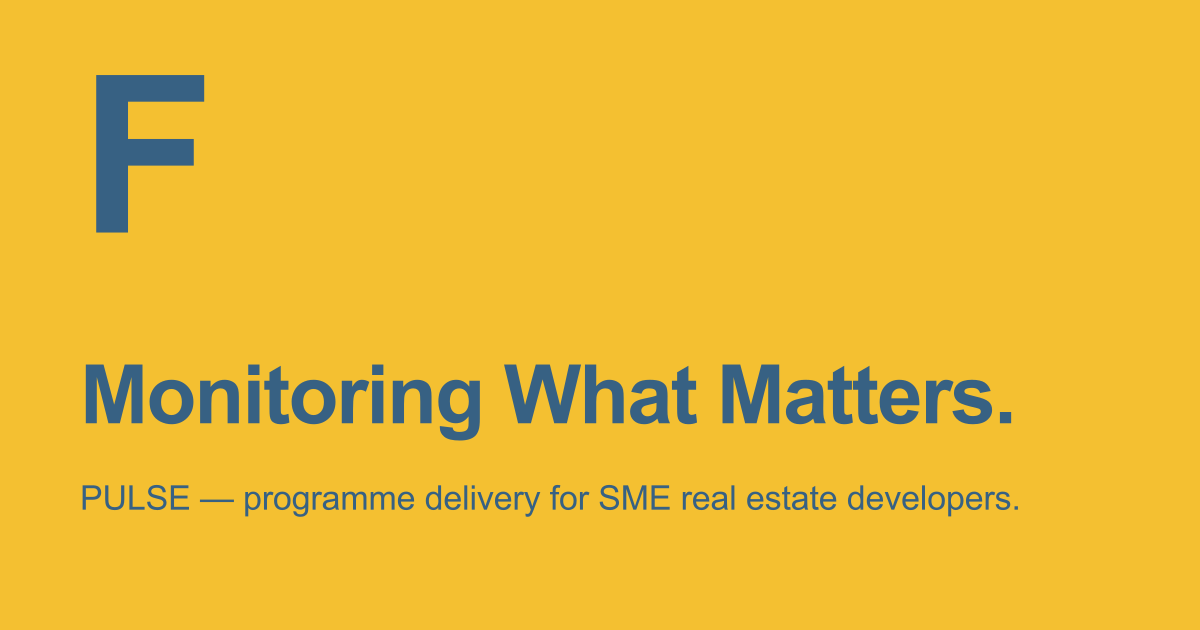
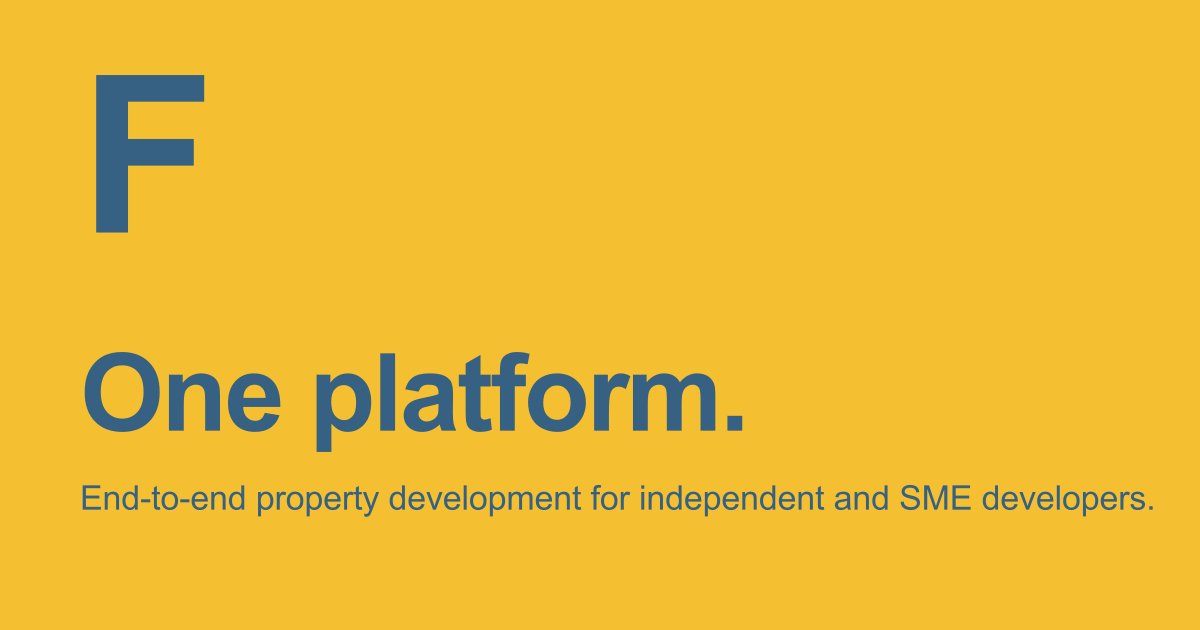
restructure step C: design partner rewrite, products section, footer + OG cleanup, em-dash sweep
Nav:
- Link set replaced: Lifecycle (#lifecycle), Products
  (#products), Get involved (#design-partner)
- Removed: PULSE, Project Brief, Pilot, About
- CTA pill renamed "Become a partner" (shorter than
  "Join the design partner programme") → #design-partner
- aria-label simplified to "Flitrr home" (was
  "Flitrr — Monitoring What Matters")

Products (NEW Section):
- id="products" on Foreground surface
- Heading: "Our first product."
- Single PULSE card with Accent 3 border + 12px radius
- Status pill: "COMING SOON · PRIVATE DEVELOPMENT"
  (Accent 3 fill, Accent 1 text, uppercase Inter 600)
- Body: "Properly set up your projects, then monitor
  what matters across every stage. PULSE is built for
  the execution arc of a development project, design
  through completion."
- Ghost CTA: "Be the first to access PULSE" →
  #design-partner
- Footline (Accent 2): "More products on the way..."

Design Partner (renamed from Pilot):
- Section id changed: #pilot → #design-partner
- Heading: "Be a Flitrr design partner."
- Sub: "Ten developers. Direct input into every product
  Flitrr ships. First access to PULSE the moment it is
  ready."
- Three blocks rewritten as Flitrr-level (no PULSE-only
  framing). What it is/give/get reflect every Flitrr
  product, not just PULSE
- PILOT_BLOCKS const renamed DESIGN_PARTNER_BLOCKS
- Pilot() function renamed DesignPartner()
- Submit + footnote: "design partner" (no hyphen)
- Success message em-dash → period

Footer CTA:
[…]

Changed region(s): [[0.0617, 0.5429, 0.8633, 0.7238], [0.0617, 0.754, 0.9558, 0.8143]]

diff --git a/app/page.js b/app/page.js
@@ -25,7 +25,7 @@ function Nav() {
         <a
           href="#"
           className={styles.navWordmark}
-          aria-label="Flitrr — Monitoring What Matters"
+          aria-label="Flitrr home"
         >
           Flitrr
         </a>
@@ -35,12 +35,11 @@ function Nav() {
           className={`${styles.navLinks} ${menuOpen ? styles.navLinksOpen : ''}`}
           aria-label="Primary navigation"
         >
-          <a href="#pulse-modules" onClick={close}>PULSE</a>
-          <a href="#project-brief" onClick={close}>Project Brief</a>
-          <a href="#pilot" onClick={close}>Pilot</a>
-          <a href="#about" onClick={close}>About</a>
-          <a href="#pilot" className={styles.navCta} onClick={close}>
-            Join the pilot
+          <a href="#lifecycle" onClick={close}>Lifecycle</a>
+          <a href="#products" onClick={close}>Products</a>
+          <a href="#design-partner" onClick={close}>Get involved</a>
+          <a href="#design-partner" className={styles.navCta} onClick={close}>
+            Become a partner
           </a>
         </nav>
 
@@ -213,25 +212,65 @@ function Lifecycle() {
 
 
 /* ─────────────────────────────────────────
-   Pilot — PULSE design-partner programme (Section 8)
+   Products — single PULSE coming-soon card
 ───────────────────────────────────────── */
 
-const PILOT_BLOCKS = [
+function Products() {
+  return (
+    <section
+      id="products"
+      className={styles.products}
+      aria-labelledby="products-heading"
+    >
+      <div className="container">
+        <h2 id="products-heading" className={styles.sectionHeading}>
+          Our first product.
+        </h2>
+
+        <article className={styles.productCard}>
+          <span className={styles.productPill}>
+            Coming soon · Private development
+          </span>
+          <h3 className={styles.productHeading}>PULSE</h3>
+          <p className={styles.productBody}>
+            Properly set up your projects, then monitor what matters across
+            every stage. PULSE is built for the execution arc of a
+            development project, design through completion.
+          </p>
+          <a href="#design-partner" className={styles.productCta}>
+            Be the first to access PULSE
+          </a>
+        </article>
+
+        <p className={styles.productsFootline}>
+          More products on the way. Each will tackle a different stage of
+          the development lifecycle.
+        </p>
+      </div>
+    </section>
+  );
+}
+
+/* ─────────────────────────────────────────
+   Design Partner — Flitrr-level founding programme
+───────────────────────────────────────── */
+
+const DESIGN_PARTNER_BLOCKS = [
   {
     heading: 'What it is',
-    body: 'A 90-day design-partner programme. Weekly working sessions with the founder while we build the Project Brief module. First access on release. Direct say in what gets built next.',
+    body: 'A 90-day programme. Working sessions while we build. First access on release. A direct say in what we ship next.',
   },
   {
     heading: 'What you give',
-    body: 'Two real projects, two hours a week, and honest feedback. A willingness to shape a product before it’s finished.',
+    body: 'Two real projects, two hours a week, honest feedback. A willingness to shape products before they are finished.',
   },
   {
     heading: 'What you get',
-    body: 'Lifetime founding-member pricing on PULSE. Priority access to every module as it ships. A direct line to the team building the tool.',
+    body: 'Lifetime founding-member pricing on every Flitrr product. Priority access to each product as it ships. A direct line to the team.',
   },
 ];
 
-function Pilot() {
+function DesignPartner() {
   const [email, setEmail] = useState('');
   const [company, setCompany] = useState('');
   const [portfolio, setPortfolio] = useState('');
@@ -252,19 +291,22 @@ function Pilot() {
   };
 
   return (
-    <section id="pilot" className={styles.pilot} aria-labelledby="pilot-heading">
+    <section
+      id="design-partner"
+      className={styles.pilot}
+      aria-labelledby="design-partner-heading"
+    >
       <div className="container">
-        <h2 id="pilot-heading" className={styles.sectionHeading}>
-          Be a PULSE design partner.
+        <h2 id="design-partner-heading" className={styles.sectionHeading}>
+          Be a Flitrr design partner.
         </h2>
         <p className={styles.pilotSub}>
-          Ten SME developers. Direct input into the product before it
-          launches. First access to the Project Brief module the moment
-          it&rsquo;s ready.
+          Ten developers. Direct input into every product Flitrr ships.
+          First access to PULSE the moment it is ready.
         </p>
 
         <div className={styles.pilotBlocks}>
-          {PILOT_BLOCKS.map(({ heading, body }) => (
+          {DESIGN_PARTNER_BLOCKS.map(({ heading, body }) => (
             <div key={heading} className={styles.pilotBlock}>
               <h3 className={styles.pilotBlockHeading}>{heading}</h3>
               <p className={styles.pilotBlockBody}>{body}</p>
@@ -281,7 +323,7 @@ function Pilot() {
                   <path d="M5.5 10.5l3 3 6-6" stroke="var(--color-accent-1-deep-blue)" strokeWidth="1.5" strokeLinecap="round" strokeLinejoin="round" />
                 </svg>
                 <span>
-                  Thank you — we&rsquo;ll be in touch shortly to confirm your spot.
+                  Thank you. We&rsquo;ll be in touch shortly to confirm your spot.
                 </span>
               </div>
             ) : (
@@ -356,12 +398,12 @@ function Pilot() {
                   </select>
                 </div>
                 <button type="submit" className={`${styles.btnPrimary} ${styles.btnFullWidth}`}>
-                  Request a design-partner spot
+                  Request a design partner spot
                 </button>
               </form>
             )}
             <p className={styles.pilotNote}>
-              No payment. No commitment beyond the design-partner programme.
+              No payment. No commitment beyond the design partner programme.
               Ten spots total.
             </p>
           </div>
@@ -396,14 +438,14 @@ function FooterCta() {
       <div className="container">
         <div className={styles.footerCtaInner}>
           <h2 id="fcta-heading" className={styles.footerCtaHeading}>
-            Ten design-partner spots. First come, first served.
+            Ten design partner spots. First come, first served.
           </h2>
           <p className={styles.footerCtaBody}>
-            PULSE will be shaped by the developers who use it first. If
-            that&rsquo;s the seat you want, take it now.
+            Flitrr will be shaped by the developers who use it first. If
+            that is the seat you want, take it now.
           </p>
-          <a href="#pilot" className={styles.btnAmber}>
-            Request a design-partner spot
+          <a href="#design-partner" className={styles.btnAmber}>
+            Request a design partner spot
           </a>
         </div>
       </div>
@@ -422,9 +464,8 @@ function Footer() {
         <div className={styles.footerTop}>
           <div className={styles.footerBrand}>
             <span className={styles.footerWordmark}>Flitrr</span>
-            <p className={styles.footerTagline}>Monitoring What Matters.</p>
             <p className={styles.footerSubTagline}>
-              Flitrr is the company behind PULSE.
+              One platform for independent and SME real estate developers.
             </p>
           </div>
           <div className={styles.footerLinks}>
@@ -469,7 +510,8 @@ export default function Home() {
       <main id="main-content">
         <Hero />
         <Lifecycle />
-        <Pilot />
+        <Products />
+        <DesignPartner />
         <FooterCta />
       </main>
       <Footer />

diff --git a/app/page.module.css b/app/page.module.css
@@ -352,6 +352,98 @@
 }
 
 /* ─────────────────────────────────────────
+   Products — single PULSE coming-soon card
+───────────────────────────────────────── */
+
+.products {
+  background-color: var(--color-surface-section);
+  padding-block: 6rem;
+  border-top: 1px solid var(--color-border);
+}
+
+.productCard {
+  background-color: var(--color-foreground-cream);
+  border: 1px solid var(--color-border);
+  border-radius: 12px;
+  padding: 24px;
+  max-width: 560px;
+  display: flex;
+  flex-direction: column;
+  gap: 1rem;
+  margin-top: 1rem;
+}
+
+.productPill {
+  display: inline-flex;
+  align-self: flex-start;
+  font-family: var(--font-body), sans-serif;
+  font-size: 0.6875rem;
+  font-weight: 600;
+  letter-spacing: 0.08em;
+  text-transform: uppercase;
+  padding: 5px 11px;
+  border-radius: 999px;
+  background-color: var(--color-accent-3-light-grey-blue);
+  color: var(--color-accent-1-deep-blue);
+}
+
+.productHeading {
+  font-family: var(--font-heading), sans-serif;
+  font-size: 2rem;
+  font-weight: 800;
+  line-height: 1.1;
+  letter-spacing: -0.015em;
+  color: var(--color-accent-1-deep-blue);
+  margin: 0;
+}
+
+.productBody {
+  font-family: var(--font-body), sans-serif;
+  font-size: 1rem;
+  line-height: 1.6;
+  color: var(--color-accent-1-deep-blue);
+  margin: 0;
+}
+
+.productCta {
+  display: inline-block;
+  align-self: flex-start;
+  margin-top: 0.5rem;
+  font-family: var(--font-body), sans-serif;
+  font-size: 0.9375rem;
+  font-weight: 600;
+  letter-spacing: 0.005em;
+  color: var(--color-button-ghost-text);
+  background-color: transparent;
+  border: 1.5px solid var(--color-button-ghost-border);
+  border-radius: 8px;
+  padding: 10px 18px;
+  transition: background-color 0.18s ease;
+  cursor: pointer;
+  text-align: center;
+  text-decoration: none;
+}
+
+.productCta:hover,
+.productCta:focus-visible {
+  background-color: var(--color-button-ghost-hover-bg);
+}
+
+.productCta:focus-visible {
+  outline: 2px solid var(--color-accent-1-deep-blue);
+  outline-offset: 3px;
+}
+
+.productsFootline {
+  font-family: var(--font-body), sans-serif;
+  font-size: 0.9375rem;
+  line-height: 1.55;
+  color: var(--color-accent-2-grey-blue);
+  margin-top: 2rem;
+  max-width: 560px;
+}
+
+/* ─────────────────────────────────────────
    Pilot — design-partner programme (Section 8)
 ───────────────────────────────────────── */
 

diff --git a/app/layout.js b/app/layout.js
@@ -15,9 +15,9 @@ const inter = Inter({
   display: 'swap',
 });
 
-const SITE_TITLE = 'Flitrr — Monitoring What Matters';
+const SITE_TITLE = 'Flitrr. One platform for property development';
 const SITE_DESCRIPTION =
-  'Flitrr builds programme delivery tools for SME real estate developers. Our first product, PULSE, gives you the discipline the big consultancies sell for £50K — starting with the document every project should begin with.';
+  'Flitrr is building products for every stage of a property development project, from planning to handover. Built for independent and SME real estate developers. PULSE is our first product.';
 const SITE_URL = 'https://flitrr.com';
 
 export const metadata = {
@@ -36,7 +36,7 @@ export const metadata = {
         url: '/og-image.png',
         width: 1200,
         height: 630,
-        alt: 'Flitrr — Monitoring What Matters',
+        alt: 'Flitrr. One platform for property development.',
       },
     ],
   },
